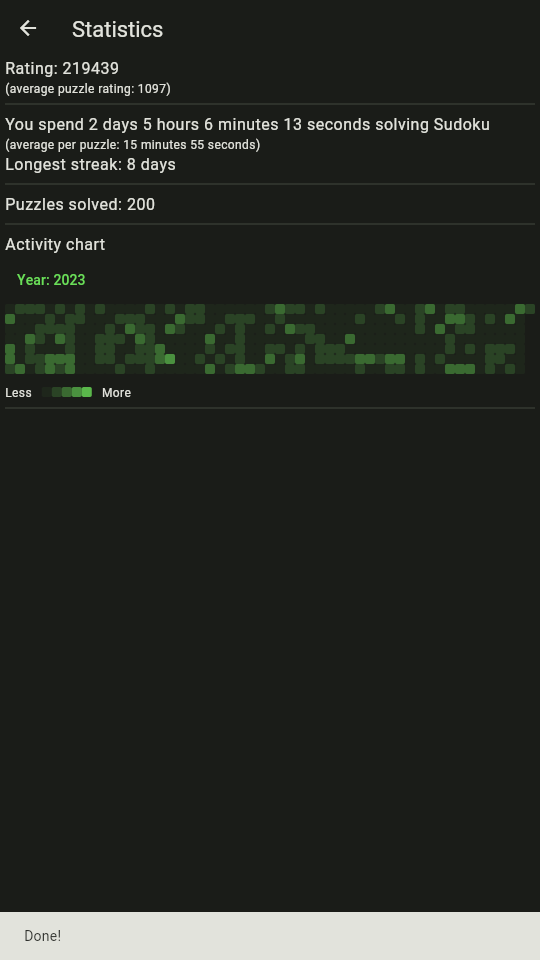
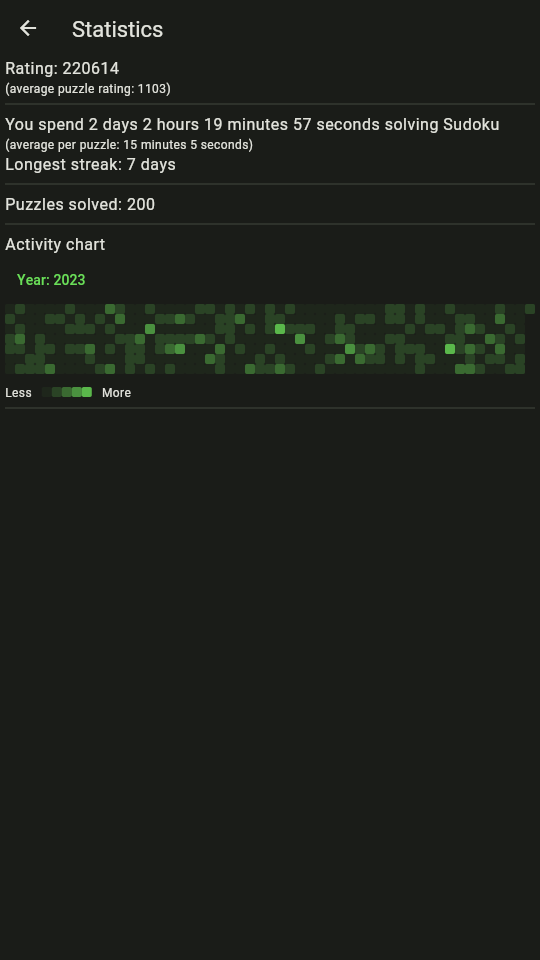
Modified screenshot test for statistics page
Now statistics page screenshot is always the same because of the static seed of Random generator, that generates fake stats

diff --git a/integration_test/screenshots_test.dart b/integration_test/screenshots_test.dart
@@ -4,6 +4,8 @@ import 'package:flutter_test/flutter_test.dart';
 import 'package:sudoku/main.dart';
 import 'package:sudoku/other_logic/app_globals.dart';
 import 'package:integration_test/integration_test.dart';
+import 'package:sudoku/other_logic/debug_functions.dart';
+import 'package:sudoku/pages/home.dart';
 
 void makeScreenshot(
     Widget w, String testName, String fileName, Function(WidgetTester) later) {
@@ -59,7 +61,6 @@ void main() {
     },
   );
 
-  // TODO: remove this Done thing at the bottom
   makeScreenshot(
     SudokuApp(
       appGlobals: appGlobals,
@@ -68,20 +69,17 @@ void main() {
     "Statistics",
     "statistics_page",
     (t) async {
-      // Generaing fake stats
-      await t.tap(find.byIcon(Icons.settings));
-      await t.pumpAndSettle();
-      await t.tap(find.byIcon(Icons.analytics_outlined));
-      await t.pumpAndSettle();
-      // Going back
-      await t.tap(find.byIcon(Icons.arrow_back));
-      await t.pumpAndSettle();
+			BuildContext context = t.element(find.byType(HomePage));
+
+			// Do not change this 42, it's seed for random generator
+			// It must be static in order to detect, when new screenshots needed
+			generateStats(context, 2023, 42);
       // Going to statistics page
       await t.tap(find.byIcon(Icons.analytics));
       await t.pumpAndSettle();
+      // Choosing year
       await t.tap(find.byType(TextButton));
       await t.pumpAndSettle();
-      // Choosing year
       await t.tap(find.bySemanticsLabel("2023"));
       await t.pumpAndSettle(const Duration(seconds: 1));
     },
